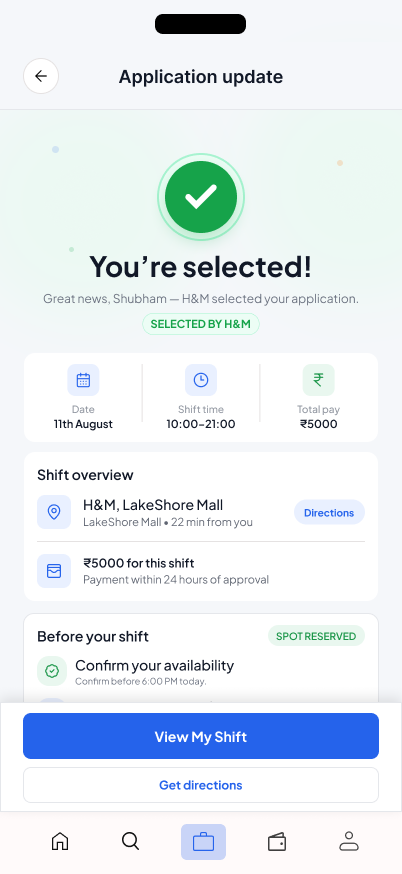
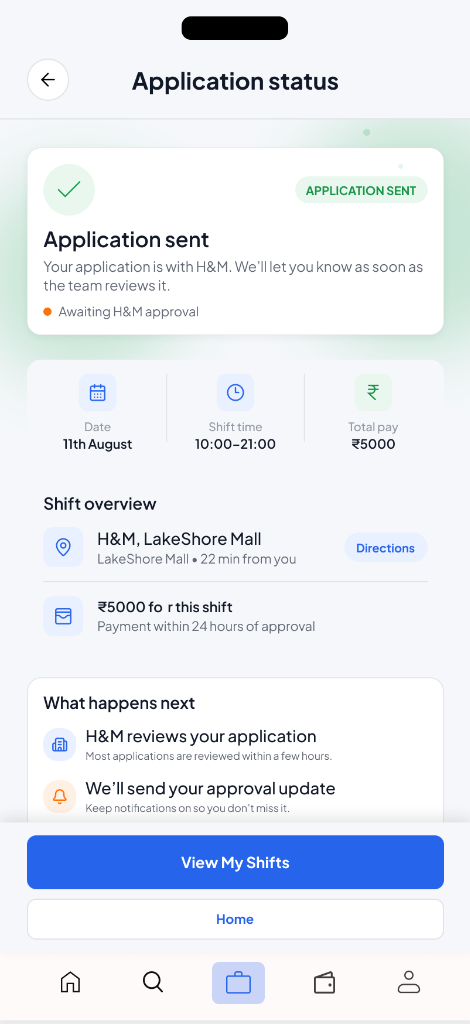
feat(upcrew): replace slide 10 phone 1 screen with application sent asset and restore phone 3 selected screen

diff --git a/work/upcrew.html b/work/upcrew.html
@@ -811,12 +811,12 @@
         <!-- 3-Device Triptych Presentation -->
         <div class="cs-triptych-section js-reveal">
           <div class="cs-triptych-grid">
-            <!-- Phone 1: Apply flow review -->
+            <!-- Phone 1: Application sent status -->
             <div class="cs-triptych-phone">
               <div class="cs-triptych-screen">
                 <img
                   src="../Assets/Images/upcrew-apply-flow.png"
-                  alt="UpCrew Apply Flow: 1-tap review and application submission"
+                  alt="UpCrew Application Status: Application sent confirmation and review timeline"
                   loading="lazy"
                 >
               </div>
@@ -833,12 +833,12 @@
               </div>
             </div>
 
-            <!-- Phone 3: Application status & review timeline -->
+            <!-- Phone 3: Selected & shift confirmed -->
             <div class="cs-triptych-phone">
               <div class="cs-triptych-screen">
                 <img
                   src="../Assets/Images/upcrew-screen-app-selected.png"
-                  alt="UpCrew Application Status: Application sent confirmation and review timeline"
+                  alt="UpCrew Shift Selected: Congratulations confirmation with on-site arrival instructions"
                   loading="lazy"
                 >
               </div>
@@ -862,9 +862,9 @@
             </div>
 
             <div class="cs-triptych-col-card">
-              <h4>Application status &amp; next steps</h4>
+              <h4>Immediate arrival guidance</h4>
               <p>
-                Application sent confirmation sets clear expectations: employer review turnaround, automated notification updates, and direct access to active commitments.
+                When selected, the screen shifts immediately to arrival instructions: supervisor contact, check-in kiosk location, and calendar sync.
               </p>
             </div>
           </div>
